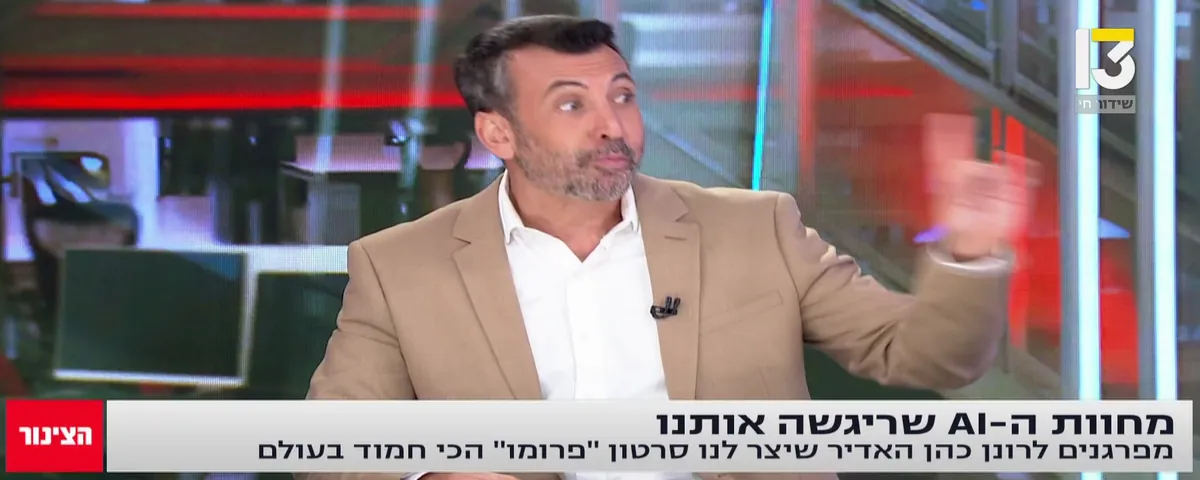
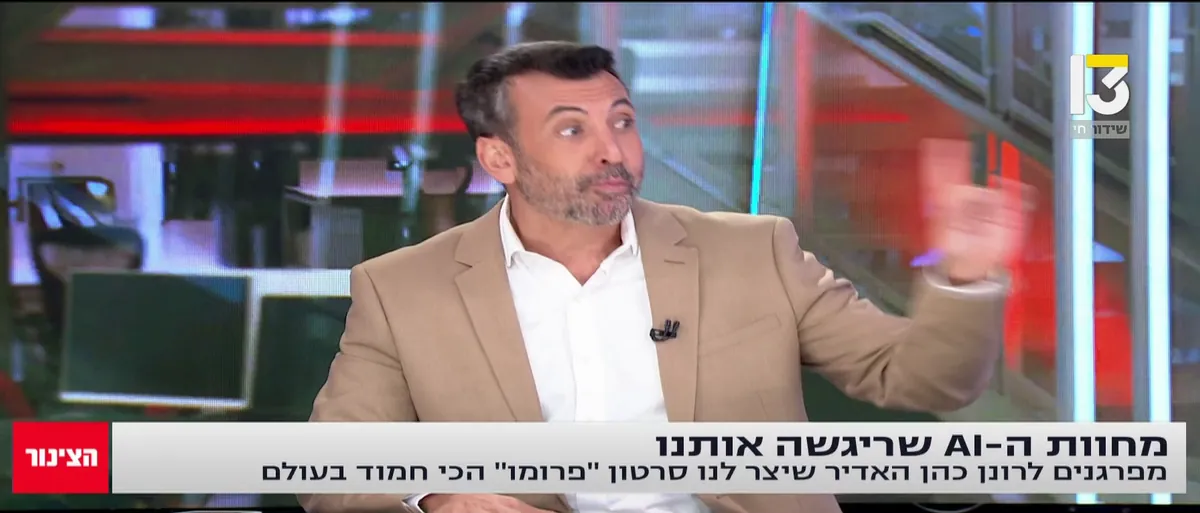
כרטיס הצינור צר יותר

diff --git a/index.html b/index.html
@@ -133,10 +133,10 @@ section{padding-block:64px}
 .tv-badge{all:unset;cursor:pointer;display:inline-flex;align-items:center;gap:14px;background:var(--bg);border-radius:999px;padding-block:10px;padding-inline:10px 26px;box-shadow:inset 0 0 0 2px var(--line);transition:transform .2s var(--ease),box-shadow .2s;max-width:100%;box-sizing:border-box}
 .tv-badge:hover{transform:translateY(-2px);box-shadow:inset 0 0 0 2px var(--sky)}
 .tv-badge:focus-visible{outline:3px solid var(--sky);outline-offset:3px}
-.tv-card{all:unset;cursor:pointer;display:flex;flex-direction:column;width:min(560px,100%);box-sizing:border-box;border-radius:var(--r);overflow:hidden;background:var(--paper);box-shadow:inset 0 0 0 2px var(--line),0 24px 60px -28px color-mix(in srgb,var(--accent) 55%,transparent);transition:transform .2s var(--ease),box-shadow .2s}
+.tv-card{all:unset;cursor:pointer;display:flex;flex-direction:column;width:min(480px,88%);box-sizing:border-box;border-radius:var(--r);overflow:hidden;background:var(--paper);box-shadow:inset 0 0 0 2px var(--line),0 24px 60px -28px color-mix(in srgb,var(--accent) 55%,transparent);transition:transform .2s var(--ease),box-shadow .2s}
 .tv-card:hover{transform:translateY(-2px);box-shadow:inset 0 0 0 2px var(--accent),0 24px 60px -24px color-mix(in srgb,var(--accent) 70%,transparent)}
 .tv-card:focus-visible{outline:3px solid var(--sky);outline-offset:3px}
-.tv-shot{position:relative;display:block;aspect-ratio:1200/480;background:#000}
+.tv-shot{position:relative;display:block;aspect-ratio:1200/513;background:#000}
 .tv-shot img{display:block;width:100%;height:100%;object-fit:cover}
 .tv-shot .tv-play{position:absolute;top:12px;inset-inline-end:12px;box-shadow:0 6px 20px rgba(0,0,0,.45)}
 .tv-card .tv-txt{padding:14px 18px 16px;gap:6px}
@@ -301,7 +301,7 @@ footer a{color:var(--ink-soft)}
         <div class="wheel" id="wheel" aria-roledescription="גלגל" aria-label="עבודות נבחרות, מתחלפות אוטומטית"><div class="ring" id="fan"></div></div>
         <div class="wheel-nav"><button type="button" id="wh-next" aria-label="הסרטון הבא">›</button><button type="button" id="wh-prev" aria-label="הסרטון הקודם">‹</button></div>
       </div>
-      <p class="tv-row tv-hero"><button type="button" class="tv-card" data-open="tv" aria-label="שודר בהצינור עם גיא לרר, רשת 13. צפו בקטע מהשידור"><span class="tv-shot"><img src="img/tv-hazinor.webp" width="1200" height="480" loading="lazy" decoding="async" alt="המגיש באולפן הצינור ברשת 13, והכיתוב: מפרגנים לרונן כהן האדיר שיצר לנו סרטון פרומו הכי חמוד בעולם"><span class="tv-play" aria-hidden="true"><svg viewBox="0 0 24 24"><use href="#play"/></svg></span></span><span class="tv-txt"><b>שודר ב"הצינור" עם גיא לרר, רשת <span dir="ltr">13</span></b><small>תודה ענקית לגיא לרר ולכל צוות הצינור ❤</small><span class="go">צפו בקטע מהשידור ←</span></span></button></p>
+      <p class="tv-row tv-hero"><button type="button" class="tv-card" data-open="tv" aria-label="שודר בהצינור עם גיא לרר, רשת 13. צפו בקטע מהשידור"><span class="tv-shot"><img src="img/tv-hazinor.webp" width="1200" height="513" loading="lazy" decoding="async" alt="המגיש באולפן הצינור ברשת 13, והכיתוב: מפרגנים לרונן כהן האדיר שיצר לנו סרטון פרומו הכי חמוד בעולם"><span class="tv-play" aria-hidden="true"><svg viewBox="0 0 24 24"><use href="#play"/></svg></span></span><span class="tv-txt"><b>שודר ב"הצינור" עם גיא לרר, רשת <span dir="ltr">13</span></b><small>תודה ענקית לגיא לרר ולכל צוות הצינור ❤</small><span class="go">צפו בקטע מהשידור ←</span></span></button></p>
     </div>
   </section>
 
